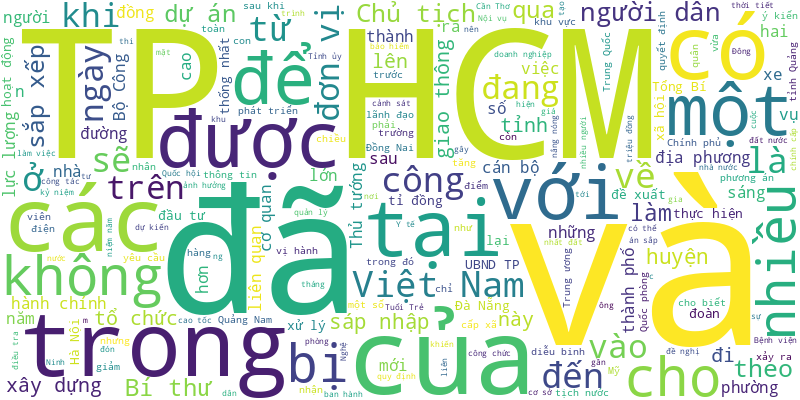
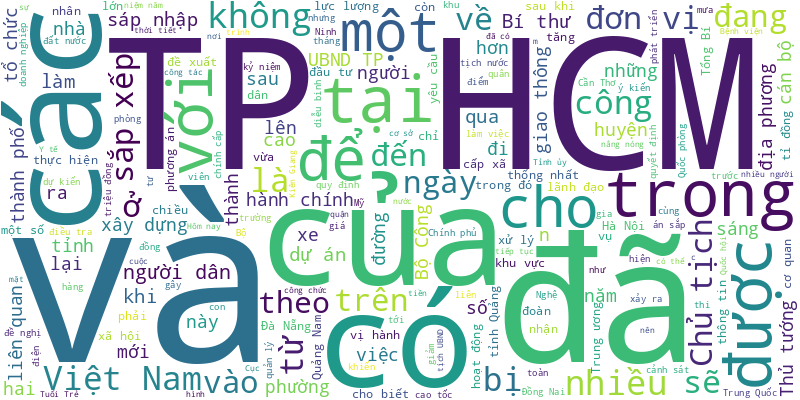
🍀 = 70%

diff --git a/README.md b/README.md
@@ -1,6 +1,20 @@
 # Tuoi Tre RSS 
 
 ## Giáo dục 
+- Tổng thống Mỹ Donald Trump đe dọa tước quyền miễn thuế của Đại học Harvard, đồng thời đóng băng 2,3 tỉ USD tài trợ liên bang, làm leo thang căng thẳng giữa chính quyền và học giới.
+- Lần đầu tiên, thiết chế hội đồng trường ở các cơ sở giáo dục đại học được đánh giá một cách toàn diện sau 5 năm thực hiện Luật GDĐH 2018.
+- So với khóa tuyển sinh năm ngoái, năm nay Trường đại học Hà Nội dự kiến tăng học phí từ 60.000 - 120.000 đồng/tín chỉ, tùy theo từng học phần, nhóm chuyên ngành.
+- Gần 300 trẻ mầm non lớp chồi, lớp lá từ hàng trăm trường mầm non tại TP.HCM đã xuất sắc tranh tài trong vòng chung kết cuộc thi 'Bé vẽ sáng tạo cùng BITEX'.
+- Một giáo viên trường mầm non ở Bắc Ninh bị camera ghi lại hành vi đánh trẻ ngay tại lớp học, khiến phụ huynh bức xúc và đăng clip lên mạng xã hội. Chính quyền và công an đã vào cuộc xác minh.
+- Đây là một trong những hoạt động của ngày hội 'Từ Mậu Thân đến mùa xuân đại thắng', do Trường tiểu học Trần Hưng Đạo, quận 1, TP.HCM tổ chức.
+- Sau hơn 6 năm tái cấu trúc với tên gọi mới từ tháng 11-2018, Trường đại học Phenikaa đã có sự chuyển biến nhanh chóng, trở thành trường trẻ nhất chuyển đổi thành công sang mô hình đại học.
+- Một số dự án xây dựng cơ sở vật chất tại các trường đại học gặp nhiều khó khăn trong việc triển khai do vướng nhiều thủ tục.
+- Tại tỉnh Ninh Thuận có huyện tiếp tục tuyển giáo viên để đảm bảo việc dạy học, nhưng có nơi lại tạm dừng vì lý do sắp xếp, sáp nhập đơn vị hành chính.
+- Bí thư Tỉnh ủy Quảng Ngãi giao Sở Giáo dục tính toán điều kiện học hành cho con em của cán bộ theo cha mẹ từ Kon Tum xuống Quảng Ngãi sau sáp nhập.
+- Sáng 16-4, vòng chung kết hội thi 'Đầu bếp trẻ' lần thứ 10 do Sở Giáo dục và Đào tạo TP.HCM tổ chức diễn ra sôi nổi, quy tụ 125 đội thi.
+- Năm 2025, Đại học Quốc gia TP.HCM vẫn tiếp tục ưu tiên xét tuyển theo quy định của đại học này. Với quy chế tuyển sinh mới việc xét tuyển sẽ thay đổi ra sao, thí sinh cần lưu ý gì?
+- Theo ban tuyển sinh quân sự (Bộ Quốc phòng), năm nay các trường quân đội sẽ tuyển sinh theo ba phương thức, bỏ phương thức xét học bạ so với năm ngoái.
+- Giữa bối cảnh chính quyền Mỹ cắt giảm ngân sách cho các trường đại học Mỹ và thu hồi visa sinh viên quốc tế, nhiều sinh viên Mỹ đã chuyển hướng quan tâm sang các trường đại học Canada.
 - Trường THPT chuyên Lê Quý Đôn (TP Nha Trang, tỉnh Khánh Hòa) cho biết căn cứ vào các quy định hiện hành để áp dụng hình thức xử lý kỷ luật phù hợp đối với nam sinh cắt ghép hình ảnh nhạy cảm của nhiều nữ sinh cùng trường.
 - Đợt lễ 30-4 và 1-5 năm nay, sinh viên nhiều trường đại học ở TP.HCM phải học bù để được nghỉ 5 ngày liên tục.
 - Thông tin Sở Giáo dục và Đào tạo thành phố Đà Nẵng đưa môn pickleball vào trường học đã nhận về nhiều ý kiến trái chiều, khiến lãnh đạo sở phải lên tiếng giải thích thêm.
@@ -990,22 +1004,75 @@ Trường đại học Văn Lang được QS xếp hạng top 51-100 thế giớ
 - Nhiều trường quốc tế tại Việt Nam đã thông báo mức học phí cho năm học 2025-2026 và bắt đầu khởi động các đợt tuyển sinh sớm.
 - Từ những chuyến đi học tập trải nghiệm thực tế, các cô cậu học trò không khỏi trân quý những thành quả lao động được làm ra từ chính đôi bàn tay của những người sản xuất.
 - Năm 2025, Trường đại học Luật TP.HCM dự kiến sẽ tăng mạnh chỉ tiêu tuyển sinh đại học chính quy, mở thêm tối thiểu 3 ngành mới các lĩnh vực kinh doanh và quản lý, pháp luật.
-- Theo hiệu trưởng nhà trường, hành động của cô giáo M. là sai, vi phạm quy định, giáo viên không được phép làm. Nhà trường đã tạm dừng việc đứng lớp của cô giáo M. một tuần.
-- Chiều 26-12, học sinh Trường THPT Ernst Thälmann (quận 1, TP.HCM) đến tham quan học tập thực tế tại nhà máy mì Acecook Việt Nam.
-- Phòng thí nghiệm được dùng để nghiên cứu công nghệ phục vụ các ứng dụng của 5G, 6G như công nghiệp tự động hóa, điều khiển tự động, xe tự lái, phẫu thuật y tế từ xa.
-- Tất cả học sinh lớp 12 Trường THPT Trần Hữu Trang, TP.HCM phải làm bài kiểm tra lại môn tiếng Anh trong đợt thi cuối học kỳ 1.
-- Phó thủ tướng Lê Thành Long vừa ký các quyết định của Thủ tướng về việc sáp nhập Trường cao đẳng Y tế Hải Dương và Trường cao đẳng Sư phạm Nghệ An vào hai trường đại học.
-- Năm 2024 đánh dấu cột mốc của sinh viên Đại học (ĐH) Duy Tân với chuỗi dài các giải nhất ở khắp các “đấu trường” học thuật trong nước và quốc tế.
-- Theo lãnh đạo Đại học Quốc gia TP.HCM, cấu trúc bài thi, đề thi đánh giá năng lực từ năm 2025 cần được điều chỉnh phù hợp.
-- Lo ngại lệnh cấm đi lại có thể được áp dụng, một số trường đại học tại Mỹ khuyến khích sinh viên quốc tế sớm quay trở lại trường sau kỳ nghỉ đông.
-- Nhiều bạn trẻ đặt niềm tin vô điều kiện vào mẹo tâm linh như đăng lại video TikTok may mắn, trải bài tarot... đủ kiểu trước kỳ thi.
-- Ngoài việc đổi tên, học viện này đang xúc tiến thủ tục thành lập phân hiệu tại Long Thành, Đồng Nai nhằm cung cấp nhân lực về hàng không.
-- Đến nay, Trường quốc tế Ngôi Sao Sài Gòn (Saigon Star) vẫn không có tên trong danh sách các trường ngoài công lập do Sở Giáo dục và Đào tạo cấp phép.
-- Một số học sinh ở Quảng Nam lên mạng xã hội mua búp bê Kumanthong về nhà thờ cúng, mua bánh, kẹo, sữa 'cho ăn' nhằm cầu may mắn và học giỏi. Theo công an, đây là hoạt động mê tín dị đoan hết sức nguy hiểm.
-- Nhận học bổng "Tiếp sức học sinh Làng Nủ đến trường", các học sinh nói vẫn nhớ những bát "Phở yêu thương" của báo Tuổi Trẻ.
-- Với việc ký kết hợp tác với Trường đại học Cửu Long, lần đầu tiên báo Tuổi Trẻ ký kết hợp tác toàn diện với một trường đại học ngoài địa giới TP.HCM và cũng là đại học tư thục đầu tiên của khu vực Đồng bằng sông Cửu Long.
 ![Edu](Edu.png)
 ## Thời Sự 
+- Để tăng cường kiểm soát và xử lý ô nhiễm môi trường nước, Bộ Nông nghiệp và Môi trường cho biết sẽ phối hợp với Bộ Công an xử lý nghiêm những trường hợp cố tình chây ì, không bảo vệ môi trường lưu vực sông.
+- Ban quản lý dự án đầu tư xây dựng công trình dân dụng Hà Nội (Ban quản lý) vừa có thông báo về phương án dịch chuyển, chặt hạ cây xanh nằm trong phạm vi giải phóng mặt bằng xây đường vành đai 1, đoạn Hoàng Cầu - Voi Phục.
+- Kỳ họp HĐND TP.HCM lần thứ 22 sẽ xem xét thông qua phương án sắp xếp lại đơn vị hành chính các cấp và xây dựng mô hình chính quyền địa phương hai cấp; tổ chức bộ máy các cơ quan chuyên môn thuộc UBND TP.HCM.
+- Nên để người về hưu tự quyết định lựa chọn làm tiếp hay không khi đã nghỉ hưu thay vì quy định cứng.
+- Ban Chấp hành Đảng bộ tỉnh Cà Mau thống nhất cao và thông qua đề án sắp xếp đơn vị hành chính cấp xã, giảm từ 100 còn 39 đơn vị cấp xã.
+- Tôi đồng thuận với việc phải cân nhắc và thảo luận trong nhân dân về việc đặt tên gắn với đơn vị hành chính mới. Trong đó yếu tố lịch sử cần được chú trọng hơn.
+- Tin tức đáng chú ý: Ưu tiên bố trí trụ sở dôi dư làm trường học, thư viện, bệnh viện; TP.HCM tiếp tục khan hiếm căn hộ bình dân; Ca mắc sởi, tay chân miệng tại Hà Nội tăng...
+- Hôm nay 17-4, thời tiết cả nước nắng nóng diện rộng, nhiều nơi nắng nóng gay gắt, độ ẩm thấp dẫn tới nguy cơ cháy nổ rất cao.
+- Một vụ cháy rừng kéo dài từ chiều đến đêm 16-4 ở phường Ba Sao, thị xã Kim Bảng (Hà Nam) vẫn chưa được dập tắt hoàn toàn.
+- Chiều 16-4, 20 học sinh Trường tiểu học số 4, TP Bằng Tường (Khu tự trị dân tộc Choang Quảng Tây, Trung Quốc) đã cùng các học sinh Việt Nam tham gia các hoạt động giao lưu, tìm hiểu và trải nghiệm văn hóa Việt Nam như vẽ nón lá, làm gốm.
+- Chủ tịch UBND TP.HCM Nguyễn Văn Được đánh giá cao đề xuất của Tập đoàn Vingroup về các ý tưởng, đề xuất chuyển đổi xanh cho TP.
+- Bộ Tư lệnh TP.HCM cho biết dịp đại lễ 30-4 sẽ bắn pháo hoa trong ba đêm 19, 26 và 30-4, trong đó đêm 30-4 bắn pháo hoa tầm cao và tầm thấp tại 30 điểm.
+- Tiếp Bộ trưởng Ngoại giao Hàn Quốc ngày 16-4, các lãnh đạo Việt Nam đề nghị hỗ trợ vốn vay ưu đãi cho đường sắt, giúp Việt Nam phát triển công nghiệp văn hóa.
+- Kiên Giang vừa có quyết định về việc xác định các khu vực có ý nghĩa quan trọng trên địa bàn TP Phú Quốc, trong có 37 khu vực quan trọng góp phần phát triển kinh tế - xã hội trên hòn đảo xinh đẹp này.
+- Thanh tra Sở Văn hóa, Thể thao và Du lịch tỉnh Quảng Ninh đã xử phạt 12,5 triệu đồng chủ tàu để khách chơi pickleball trên boong. Đã có người lao xuống biển khi đỡ bóng.
+- Nhiều khách sạn, cơ sở du lịch tại Quảng Bình bị kẻ xấu lập fanpage mạo danh. Trang giả mạo này đưa ra các chương trình khuyến mãi hấp dẫn. Nhiều du khách tưởng thật, chuyển tiền cọc rồi không liên lạc được.
+- Theo đề án sắp xếp đơn vị hành chính cấp xã, sau sáp nhập, phường mới ở Bình Phước dự kiến có các tên Bình Phước, Đồng Xoài, Bình Long và Phước Long.
+- Ngày 16-4, cảnh sát giao thông An Sương phát hiện tài xế xe buýt vi phạm nồng độ cồn 0,148mg/l khí thở. Tài xế sẽ bị phạt tiền từ 6-8 triệu đồng, trừ 4 điểm giấy phép lái xe và tạm giữ phương tiện.
+- UBND TP.HCM vừa có quyết định phân công công tác chủ tịch, phó chủ tịch UBND TP.HCM và các ủy viên UBND TP.HCM.
+- Chủ tịch nước khẳng định 100 gương mặt tiêu biểu có mặt hôm nay là những 'bông hoa' rất đẹp, rất thật, là những 'câu chuyện cổ tích giữa đời thường'.
+- Đà Nẵng mới sau khi sáp nhập sẽ là thành phố rộng nhất nước. Đây cũng là thành phố có bờ biển dài nhất và có tới 2 sân bay.
+- Liên quan vụ 600 loại sữa giả, Chủ nhiệm Ủy ban Công tác đại biểu Nguyễn Thanh Hải cho rằng cần xem có tồn tại những lỗ hổng, khoảng trống trong quản lý, các văn bản pháp lý.
+- Theo tờ trình của UBND TP Nha Trang, dự kiến thành phố này còn 3 phường gồm phường Nha Trang, phường Bắc Nha Trang và phường Nam Nha Trang.
+- Tại TP Buôn Ma Thuột (Đắk Lắk), nhiều công trình vi phạm vẫn đang đua nhau mọc lên để săn view, đặc biệt ở các khu vực có tiềm năng phát triển du lịch, dịch vụ.
+- 'Chúng tôi đã giành lại Tổ quốc với biết bao xương máu của đồng bào, đồng chí. Mong thế hệ trẻ giữ gìn và phát triển đất nước làm sao xứng đáng với tầm vóc của những người đã ngã xuống'. Câu chuyện của những người lính xe tăng 390.
+- Một học sinh lớp 7 ở Huế bị sóng biển cuốn mất tích khi đang tắm biển cùng nhóm bạn.
+- Chiều 16-4, Đại tướng Phan Văn Giang, bộ trưởng Bộ Quốc phòng, đã có buổi làm việc với Tỉnh ủy Lạng Sơn.
+- Những năm gần đây, tình trạng xâm thực khiến bờ biển sạt lở, ngày càng tiến sát vào khu dân cư khiến hàng trăm hộ dân lo lắng, bất an.
+- Theo đề án sắp xếp đơn vị hành chính cấp xã của tỉnh Quảng Ngãi năm 2025 được biểu quyết thông qua, tỉnh Quảng Ngãi tổ chức lại huyện đảo Lý Sơn thành đơn vị hành chính cấp xã có tên gọi là đặc khu Lý Sơn.
+- Đề xuất thí điểm viện kiểm sát nhân dân khởi kiện vụ án dân sự để bảo vệ quyền dân sự của các chủ thể là nhóm dễ bị tổn thương, hoặc bảo vệ lợi ích công.
+- Đại tướng Phan Văn Giang và Thượng tướng Đổng Quân đã thăm cửa khẩu Hữu Nghị Quan, Đại đội Biên phòng, mô hình cửa khẩu thông minh, thôn kiểu mẫu Chu Liên và trường tiểu học tại khu tự trị dân tộc Choang Quảng Tây, Trung Quốc.
+- Một số dự án xây dựng cơ sở vật chất tại các trường đại học gặp nhiều khó khăn trong việc triển khai do vướng nhiều thủ tục.
+- Đập Sabo đầu tiên tại Việt Nam được thiết kế theo tiêu chuẩn Nhật Bản giúp giảm lũ ống, lũ quét vừa được khánh thành tại Sơn La.
+- Tuổi Trẻ Online trân trọng đăng toàn văn bài phát biểu chỉ đạo của Tổng Bí thư Tô Lâm tại Hội nghị toàn quốc quán triệt, triển khai thực hiện Nghị quyết Hội nghị lần thứ 11 Ban Chấp hành Trung ương Đảng khóa XIII.
+- Theo kế hoạch, Long An sẽ lấy ý kiến về sắp xếp địa phương 2 cấp từ nay đến ngày 21-4, để thông qua HĐND cấp xã dự kiến trước ngày 24-4.
+- Sở Nội vụ tỉnh Đồng Nai vừa nhắc nhở nhiều đơn vị, địa phương trên địa bàn tỉnh khẩn trương cung cấp số liệu để làm đề án sắp xếp, sáp nhập các đơn vị hành chính.
+- Nhiều tỉnh ở miền Tây đều có huyện Châu Thành, riêng tỉnh Hậu Giang có 2 huyện mang tên địa danh này. Sau khi bỏ cấp huyện, địa danh Châu Thành có còn được giữ lại?
+- Sở Xây dựng Hà Nội vừa ký quyết định số 3725 về việc bố trí các địa điểm cho 5 đơn vị di dời phục vụ phương án quy hoạch, cải tạo không gian khu vực phía đông hồ Hoàn Kiếm.
+- Sở Văn hóa, Thể thao và Du lịch tỉnh Quảng Ninh sẽ làm việc với các đơn vị liên quan vụ người đàn ông lao xuống biển khi đang chơi pickleball trên boong tàu du lịch.
+- Tuyến Lộ Tẻ - Rạch Sỏi là đường huyết mạch về tỉnh Kiên Giang đang được thi công nâng cấp giai đoạn 2. Thế nhưng nhiều người phản ánh thi công ì ạch.
+- Liên hệ không được, Sở Nội vụ Quảng Nam phải cử người vào tận TP.HCM gặp chủ doanh nghiệp may mặc để đòi quyền lợi cho công nhân.
+- Ông Lê Minh Hưng cho hay sau khi sáp nhập, tỉnh mới có thể nghiên cứu quy hoạch, lựa chọn xây dựng các trung tâm chính trị - hành chính mới phù hợp.
+- UBND tỉnh Vĩnh Long sắp trình Ban Chấp hành tỉnh thông qua đề án sắp xếp 102 xã phường xuống 35, và dự kiến không còn ký hiệu phường bằng số.
+- Vietjet chính thức khai thác các chuyến bay TP.HCM, Hà Nội - Côn Đảo từ ngày 19-4, đồng thời ra mắt dịch vụ giỏ lễ xanh phục vụ du khách hành hương.
+- Bí thư Nguyễn Văn Nên làm trưởng Ban Chỉ đạo thực hiện sắp xếp, tổ chức lại đơn vị hành chính các cấp và xây dựng mô hình tổ chức chính quyền địa phương 2 cấp.
+- Bí thư Tỉnh ủy Quảng Ngãi giao Sở Giáo dục tính toán điều kiện học hành cho con em của cán bộ theo cha mẹ từ Kon Tum xuống Quảng Ngãi sau sáp nhập.
+- Thành phố Đà Nẵng mới sau khi sáp nhập tỉnh Quảng Nam với thành phố Đà Nẵng hiện nay có 3 di sản thế giới được UNESCO công nhận.
+- Những ngày biển lặng, người dân làng chài Mân Thái (quận Sơn Trà, TP Đà Nẵng) í ới gọi nhau kéo lưới rùng.
+- 50 anh hùng lực lượng vũ trang nhân dân, Bà mẹ Việt Nam anh hùng, cựu chiến binh vừa có buổi gặp mặt tại Hội trường Thống Nhất (TP.HCM) sáng 16-4.
+- Chỉ cần cung cấp vài thông tin cơ bản, một số cá nhân khẳng định có thể làm luôn cho khách hàng chứng chỉ hành nghề khám, chữa bệnh "giả" với đủ phạm vi hoạt động.
+- Tổng Bí thư Tô Lâm lưu ý khi thực hiện sáp nhập cần vượt qua những tâm lý, tâm trạng vùng miền để hướng tới tư duy, tầm nhìn rộng lớn hơn đất nước là quê hương.
+- Công an phường Điện Minh, thị xã Điện Bàn, Quảng Nam cho hay vừa giúp một người dân ở tỉnh Đắk Lắk nhận lại số tiền 410 triệu đồng do sơ ý chuyển nhầm.
+- 70km cao tốc Vân Phong - Nha Trang trên tuyến cao tốc Bắc - Nam phía đông sẽ đưa vào khai thác sử dụng vào ngày 19-4.
+- Sáng 16-4, UBND xã Gio An (huyện Gio Linh, tỉnh Quảng Trị) tổ chức lễ động thổ, đặt viên đá đầu tiên xây dựng đền thờ chúa tiên Nguyễn Hoàng tại thôn An Nha.
+- Các đại biểu thống nhất thông qua đề án sắp xếp đơn vị hành chính cấp xã của tỉnh Quảng Ngãi năm 2025, sau sắp xếp Quảng Ngãi giảm 67,65% số xã.
+- Chủ tịch UBND TP Biên Hòa (Đồng Nai) cho hay đang thương thảo hợp đồng với đơn vị xử lý rác, không để xảy ra tình trạng ngưng trệ việc thu gom rác.
+- Dự báo đợt nắng nóng diện rộng đầu tiên trong năm 2025 sẽ kéo dài tới khoảng ngày 22-4, riêng Nam Bộ sẽ kéo dài hơn.
+- Sáng 16-4, Đại tướng Phan Văn Giang đã dẫn đầu đoàn đại biểu cấp cao Bộ Quốc phòng Việt Nam sang Trung Quốc.
+- Trong buổi tổng hợp luyện diễu binh tại sân bay Biên Hòa sáng nay 16-4, không khí càng hào hùng hơn khi các lực lượng đã nhuần nhuyễn sau nhiều ngày tập luyện.
+- Thủ tướng Phạm Minh Chính nhấn mạnh mục tiêu chuyển từ thụ động phục vụ nhân dân sang tích cực chủ động phục vụ nhân dân, với định hướng chính quyền phải gần dân, sát dân, hiểu dân.
+- Cục Cảnh sát giao thông vừa có phương án phân luồng giao thông từ xa, giải quyết ùn tắc giao thông khu vực TP.HCM và các địa phương liên quan.
+- Từ tin báo người dân, Đoàn kinh tế - quốc phòng 337 tìm thấy 2 hài cốt liệt sĩ trong hốc đá với nhiều di vật.
+- Chuyển 100% biên chế cấp huyện hiện có để bố trí biên chế cấp xã, trong đó đội ngũ cán bộ lãnh đạo cấp huyện hiện nay được bố trí làm nòng cốt tại đơn vị cấp xã mới.
+- Chính phủ thống nhất với việc không tổ chức cơ quan điều tra của Viện Kiểm sát nhân dân tối cao theo đúng quy định của Hiến pháp.
+- Nghị quyết mới của Ủy ban Thường vụ Quốc hội quy định cách đặt tên, quy mô dân số, diện tích cấp tỉnh, xã, phường sáp nhập.
+- Chủ tịch Quốc hội Trần Thanh Mẫn cho biết bầu cử Quốc hội khóa XVI và HĐND các cấp sẽ diễn ra sớm (dự kiến 15-3-2026). Quốc hội dự kiến có 500 đại biểu.
+- Sau sáp nhập, đường từ trung tâm Sóc Trăng và Hậu Giang về trung tâm thành phố Cần Thơ chỉ khoảng 60km nhưng di chuyển mất rất nhiều thời gian và chi phí qua trạm thu phí cũng khá cao.
 - Từ nay đến 30-4, một loạt dự án giao thông trong cả nước sẽ rộn ràng khởi công, khánh thành chào mừng kỷ niệm 50 năm thống nhất đất nước.
 - Trong buổi tổng hợp luyện tại sân bay Biên Hòa trước khi hội quân về TP.HCM, Đại tướng Nguyễn Tân Cương - tổng tham mưu trưởng Quân đội nhân dân Việt Nam - trực tiếp chỉ đạo.
 - Theo đề án sắp xếp hệ thống cơ quan thanh tra, bộ máy của Thanh tra Chính phủ sẽ sắp xếp cơ sở kết thúc hoạt động 12 thanh tra bộ và 5 đơn vị cấp vụ, đồng thời hợp nhất 2 đơn vị khác.
@@ -1042,6 +1109,7 @@ Trường đại học Văn Lang được QS xếp hạng top 51-100 thế giớ
 - Chủ tịch UBND TP.HCM Nguyễn Văn Được yêu cầu các địa phương tăng cường chấn chỉnh lấn chiếm lòng đường, vỉa hè trái phép.
 - PGS.TS Lê Anh Tuấn lý giải việc các cống ngăn mặn cùng với đê bao đã làm triều không được phân tán, nên nước mặn theo triều đẩy sâu vào đất liền.
 - Trên nhiều tuyến phố ở trung tâm Đà Nẵng thời gian qua xuất hiện các vết bùn, đất nhem nhuốc, mất mỹ quan. Đáng nói là tình trạng này xuất hiện ở ngay trên tuyến phố ven sông Hàn - nơi hằng ngày có đông đảo du khách qua lại.
+- Hàng trăm cán bộ, trong đó có nhiều lãnh đạo chủ chốt các tỉnh, thành đã nộp đơn xin nghỉ, nhường chỗ cho thế hệ kế cận để tinh gọn, sắp xếp bộ máy. Bước đầu có cả trăm tỉ đồng chi ra cho các cán bộ nghỉ hưu trước để sắp xếp bộ máy.
 - Hội nghị lần 39 Ban Chấp hành Đảng bộ TP.HCM thảo luận và cho ý kiến phương án sắp xếp phường xã, xây dựng mô hình tổ chức chính quyền địa phương hai cấp; hợp nhất các tỉnh, kết thúc hoạt động cấp huyện.
 - TP.HCM sẽ có 6 dự án được đầu tư theo đối tác công tư, trong đó có xây dựng Bệnh viện Đột qụy có mức kêu gọi đầu tư 1.200 tỉ đồng.
 - Ông Đặng Hồng Anh - phó chủ tịch Tập đoàn TTC - sẽ từ nhiệm vai trò phó chủ tịch HĐQT Công ty TTC Land nhưng sẽ đảm nhiệm vai trò khác tại doanh nghiệp bất động sản này.
@@ -1938,74 +2006,6 @@ Trường đại học Văn Lang được QS xếp hạng top 51-100 thế giớ
 - Liên quan vụ ô tô chở 36 du khách đi từ Đà Lạt rơi xuống vực đèo Bảo Lộc (tỉnh Lâm Đồng), tài xế đã bị tạm giữ để phục vụ điều tra.
 - Tại cuộc tiếp Đại sứ Mỹ Marc Knapper, Tổng Bí thư Tô Lâm cho biết Việt Nam đang tích cực giải quyết các quan tâm hiện nay của Mỹ, trên tinh thần khuyến khích gia tăng nhập khẩu các sản phẩm mà nước này có thế mạnh và Việt Nam có nhu cầu.
 - ‘Nổ’ du học nước ngoài về và đang là bác sĩ, Nguyễn Quán Hùng làm quen nhiều cô gái rồi lừa cả tình lẫn tiền của các nạn nhân.
-- Trong 8 năm, cơ quan chức năng phát hiện 110 mỏ khoáng sản, gồm 25 loại khác nhau như đất hiếm, vàng, thiếc-wolfram, đồng.
-- Anh T. chở vợ là chị C. bằng xe máy đi khám bệnh, khi đi đến địa bàn huyện Cái Nước, tỉnh Cà Mau thì va chạm với xe khách. Vụ va chạm làm vợ chồng anh T. tử vong tại chỗ.
-- Cơ quan chức năng nghi ngờ nhà thầu thi công căn nhà 7 tầng tại TP Buôn Ma Thuột (Đắk Lắk) đã đào móng quá sâu và rộng, làm sập căn nhà bên cạnh.
-- Việt Nam không nằm trên vành đai lửa nên không xảy ra động đất mang tính chất hủy diệt, song vẫn có khả năng xảy ra các trận động đất mạnh 6-7 độ (độ lớn M) ở khu vực Tây Bắc, do có nhiều đứt gãy địa chất.
-- Trung tâm Quản lý giao thông công cộng TP.HCM thông báo điều chỉnh lộ trình tuyến xe buýt 99 (chợ Thạnh Mỹ Lợi - Đại học Quốc gia) kết nối vào tuyến metro số 1 (Bến Thành - Suối Tiên).
-- Cháu bé 8 tuổi bị người tình của mẹ đánh, ném xuống sàn nhà gây chấn thương não, nhập viện cấp cứu trong tình trạng hôn mê ở An Giang đã tử vong, gia đình đã đưa thi thể cháu về lo hậu sự.
-- Viện Kiểm sát nhân dân tỉnh Tiền Giang đã phê chuẩn quyết định khởi tố bị can Hồ Vũ Bảo - cựu phó giám đốc Sở Nội vụ, trưởng Ban Thi đua - Khen thưởng trực thuộc Sở Nội vụ tỉnh Tiền Giang - về tội thiếu trách nhiệm gây hậu quả nghiêm trọng.
-- Ông H. có những bình luận trên mạng xã hội Facebook khiếm nhã, phân biệt địa phương, chia rẽ tình cảm giữa nhân dân hai tỉnh Quảng Trị và Quảng Bình.
-- Tỉnh Bạc Liêu thông qua chính sách hỗ trợ lãi vay đầu tư xe buýt và miễn, giảm giá vé cho nhiều đối tượng đi xe buýt để khuyến khích loại hình vận tải công cộng này.
-- Kết thúc thanh tra dự án xây dựng cơ sở 2 Bệnh viện Bạch Mai và Bệnh viện Hữu nghị Việt Đức, Thanh tra Chính phủ phát hiện giá trị lãng phí lên đến hàng ngàn tỉ, chuyển hồ sơ vụ việc có dấu hiệu tội phạm đến Bộ Công an xem xét điều tra, xử lý.
-- Chủ tịch Quốc hội Trần Thanh Mẫn nhấn mạnh, tại kỳ họp thứ 9 sẽ ưu tiên trình Quốc hội xem xét, quyết định các nội dung cấp thiết phục vụ sắp xếp tổ chức bộ máy, tổ chức chính quyền.
-- Căn nhà bốc cháy khiến bé trai tử vong. Khi ngọn lửa bùng phát, cơ quan chức năng cho hay mẹ nạn nhân không có trong nhà.
-- Tổng liên đoàn Lao động Việt Nam sẽ nghiên cứu, đề xuất tăng cường kiểm tra tài chính, kết hợp kiểm toán độc lập tại công đoàn cơ sở ở doanh nghiệp ngoài nhà nước có đông công nhân.
-- Lâm Đồng nằm sâu trong nội địa, Bình Thuận giáp ranh và có 192km bờ biển. Giao thông kết nối hai tỉnh hiện ra sao?
-- Lực lượng cảnh sát giao thông Quảng Nam đã làm việc với chủ xe và 2 người nước ngoài, liên quan đến vụ việc nhóm người buông hai tay khi lái mô tô phân khối lớn trên đường.
-- Bộ Nội vụ đề xuất UBND cấp tỉnh trước sáp nhập lập danh sách, thống nhất dự kiến phương án xử lý trụ sở, tài sản công của cơ quan, tổ chức, đơn vị ở cấp tỉnh thuộc phạm vi quản lý, kèm theo đề án sắp xếp đơn vị cấp tỉnh.
-- Bà Cao Thị Hòa An - phó bí thư thường trực Tỉnh ủy Phú Yên - vừa được Bộ Chính trị chuẩn y là bí thư Tỉnh ủy Phú Yên nhiệm kỳ 2020 - 2025.
-- Thủ tướng đề nghị các trường đại học của hai bên chủ động trao đổi để có các chương trình hợp tác cụ thể.
-- Ông Võ Thanh Hùng, trưởng Ban Nội chính Tỉnh ủy Gia Lai, được tổ chức cho phép nghỉ hưu trước tuổi dù còn 3 năm công tác.
-- Chủ tịch tỉnh Khánh Hòa chỉ đạo các đơn vị liên quan kiểm tra, xử lý vụ người dân "tố" lãnh đạo xã đi dã ngoại xa trong giờ hành chính.
-- Mức phạt dành cho nhóm người chặn đường đánh bóng bàn ở quận Gò Vấp (TP.HCM) còn nhẹ, chưa đủ sức răn đe.
-- Một nam thanh niên ở Nghệ An trúng tuyển nghĩa vụ quân sự nhưng trước lễ giao nhận quân hai ngày lại xuất cảnh sang Hàn Quốc làm việc.
-- UBND TP.HCM vừa ban hành quyết định giao nhiệm vụ chủ đầu tư các dự án metro thực hiện theo nghị quyết 188 của Quốc hội.
-- Sáng 31-3, tàu huấn luyện Suzunami của Lực lượng Tự vệ trên biển Nhật Bản chở theo 230 sĩ quan và thủy thủ đã cập cảng Tiên Sa.
-- Phó tổng tham mưu trưởng Lào trung tướng Vanthong Bouttavong cho biết Việt Nam là nước đầu tiên được quân đội Lào chọn để nghiên cứu xây dựng lực lượng gìn giữ hòa bình Liên hợp quốc.
-- Báo Tuổi Trẻ đã tiếp nhận ủng hộ của nhiều bạn đọc cho người dân Myanmar đang chịu sự mất mát do trận động đất 7,7 độ gây ra.
-- Đường tỉnh 830C nối từ trung tâm huyện Bến Lức (Long An) đến TP.HCM được điều chỉnh tổng mức đầu tư từ 971 tỉ đồng lên 1.851 tỉ đồng.
-- Bất chấp dòng xe cộ đông đúc trên quốc lộ 1, tài xế xe buýt vẫn lái xe chạy ngược chiều, chèn ép xe khác trên đường.
-- Hình ảnh do lực lượng cứu hộ Việt Nam gửi về cho thấy nhiều ngôi nhà tại thủ đô Naypyidaw, Myanmar đã đổ sập, hư hại hoàn toàn.
-- Trưởng Ban Tuyên giáo và Dân vận Trung ương Nguyễn Trọng Nghĩa đề nghị phát huy nguồn lực các tôn giáo cho sự nghiệp phát triển đất nước.
-- Dưới thời tiết nắng gắt của Naypyidaw (Myanmar), đoàn công tác cứu hộ của Việt Nam khẩn trương hỗ trợ tìm kiếm nạn nhân động đất.
-- Xe tải đang chạy lên dốc cầu Chữ Y thì bất ngờ tông vào dải phân cách lật ngang, đầu xe tải va trúng xe máy và ô tô chạy hướng ngược lại.
-- Sự anh dũng chiến đấu, quên mình của nhiều thế hệ cách mạng đã tạo nên huyền thoại, những kỳ tích hào hùng, để lại dấu ấn sâu đậm, trường tồn cùng thời gian.
-- Có tổng cộng 6 bệnh nhân nghi ngộ độc rượu methanol (cồn công nghiệp) được cấp cứu tại Bệnh viện Chợ Rẫy (TP.HCM).
-- Thay đổi mới liên quan đến cấp, đổi thẻ bảo hiểm y tế người dân cần biết vừa được Bảo hiểm xã hội Việt Nam ban hành.
-- UBND tỉnh Lâm Đồng đã phê duyệt dự án đầu tư đường cao tốc Bảo Lộc - Liên Khương nối phía nam Lâm Đồng với Đà Lạt.
-- Tại dự Luật Cán bộ, công chức sửa đổi đang được lấy ý kiến, Bộ Nội vụ đã đề xuất các quy định mới về việc tuyển dụng, thôi việc với công chức.
-- Công an Quảng Trị vừa bắt hai vợ chồng vì hành vi tống tiền một phụ nữ bằng clip sex do chính người chồng quay lại khi quan hệ tình dục với người này.
-- Một ổ mây dông lớn từ biển đang di chuyển dần vào đất liền, chiều nay thời tiết Nam Bộ có mưa dông, nhiều nơi mưa vừa.
-- Xe khách biển số Đà Nẵng chở 24 người đi hành hương bị lật trên đèo Khánh Lê nối Nha Trang với Đà Lạt, khiến 6 người bị thương.
-- Sáng 31-3, Tòa án nhân dân tỉnh Đồng Nai đã mở phiên tòa xét xử sơ thẩm vụ án môi giới hối lộ xảy ra ở trạm cảnh sát giao thông Suối Tre.
-- Để phát triển nhà ở giá rẻ tại các đô thị lớn như Hà Nội và TP.HCM, cần tạo lập quỹ đất và nguồn vốn đủ lớn để xây dựng đồng loạt.
-- Tắm hồ bơi ở phường Thới An (quận 12, TP.HCM), người đàn ông chới với rồi nổi trên mặt nước, mọi người đưa ông lên bờ nhưng ông đã qua đời.
-- Công an đang tạm giữ Hồ Trần Minh Có (30 tuổi, huyện Châu Phú, tỉnh An Giang), làm rõ hành vi đánh đập bé 8 tuổi con của người tình.
-- Sáng 31-3, một vụ cháy lớn xảy ra tại khu nhà xưởng phế liệu. Cột khói đen bốc lên cao có thể nhìn thấy từ khoảng cách xa nhiều kilomet.
-- Ban quản lý dự án 85 trình Bộ Xây dựng chủ trương đầu tư hoàn thiện ống hầm thứ 2 xuyên Núi Vung trên cao tốc Bắc - Nam.
-- Rạng sáng 31-3, Nhà vua Bỉ Philippe và Hoàng hậu Mathilde đã đến Hà Nội, bắt đầu chuyến thăm cấp nhà nước Việt Nam từ ngày 31-3 đến ngày 4-4.
-- Để đáp ứng nhu cầu vốn, IPO (phát hành cổ phiếu lần đầu ra công chúng) là lựa chọn của nhiều doanh nghiệp. Nhưng ngay cả Tesla của Elon Musk hay "ông lớn" Amazon nếu khởi nghiệp ở Việt Nam cũng khó có cơ hội niêm yết, kêu gọi vốn.
-- Tin tức đáng chú ý: Ông Phạm Nhật Vượng tài trợ 27.257 tỉ cho VinFast; TP.HCM điều chỉnh nhiều tuyến xe buýt; Lịch trả lương hưu mới tại Hà Nội...
-- Do ảnh hưởng không khí lạnh nên thời tiết Bắc Bộ mưa rét, Nam Bộ ảnh hưởng của rãnh áp thấp nên trời có mưa rào và dông, nắng nóng giảm.
-- Du khách ngoài được xem pháo hoa tại lễ kỷ niệm 50 năm giải phóng tỉnh Bình Định còn được xem các tiết mục nghệ thuật đậm chất văn hóa của địa phương, trong đó có mô hình “voi lửa” kích thước lớn tái hiện chiến công triều Tây Sơn.
-- Một đoạn clip trên mạng xã hội ghi lại cảnh một nhóm người lái mô tô phân khối lớn, trong đó hai người đã buông hai tay khi lái mô tô trên tuyến đường ven biển Quảng Nam.
-- Sau khi sắp xếp lại theo chủ trương tinh gọn bộ máy, tỉnh Tây Ninh sẽ giảm từ 94 xuống còn 28 đơn vị hành chính cấp xã.
-- Chiều 30-3, đội cứu hộ của Bộ Quốc phòng và Bộ Công an Việt Nam gồm 106 người đã đến sân bay Yangon của Myanmar. Số tiền 300.000 USD cũng đã được Việt Nam viện trợ khẩn cấp cho nước này.
-- Một xe khách đã bị lật trên đèo Bảo Lộc (địa phận huyện Đạ Huoai, tỉnh Lâm Đồng) khiến một người tử vong.
-- Đám cháy bốc lên và nhanh chóng thiêu rụi một phần nhà máy xay xát Rạch Chanh ven quốc lộ 62, huyện Thủ Thừa, Long An.
-- Nhóm thanh niên lái xe máy không đội mũ bảo hiểm, lạng lách giữa các làn rồi tạt đầu ô tô trên cầu Nhật Tân (Hà Nội). Cảnh sát giao thông đã nhanh chóng xác minh.
-- Chiều nay 30-3, mây dông phát triển ở một số tỉnh Đông Nam Bộ rồi xu hướng mở rộng về TP.HCM, chiều tối dự báo có mưa rào.
-- Hạn hán năm nay đến sớm và dự báo sẽ khốc liệt, nhiều hồ đập trên địa bàn Đắk Lắk đã cạn kiệt, buộc địa phương phải tìm giải pháp bảo vệ cây trồng, đảm bảo nguồn nước tưới.
-- Sở Nội vụ Nghệ An đề nghị UBND thành phố Vinh xây dựng phương án sau sắp xếp giảm còn 3 đơn vị hành chính cấp xã. Thành phố Vinh sẽ lấy tên gọi nào?
-- Việc xử lý các dự án vướng mắc không che giấu, không bỏ sót, không để lọt sai phạm, không để thất thoát tài sản nhà nước nhưng bảo đảm quyền và lợi ích hợp pháp, chính đáng của người dân và doanh nghiệp.
-- Dù trời mưa, rét nhưng hàng vạn người dân đã hành hương về Đền Hùng (Phú Thọ) để dâng hương tưởng niệm các Vua Hùng trong ngày 30-3.
-- Sau khi được ông chủ người Hàn Quốc thuê, Xuyên đã lợi dụng việc là giám đốc 2 công ty để rút tiền sử dụng vào mục đích riêng, làm các báo cáo sai lệch để che giấu hành vi, chiếm đoạt gần 6 tỉ.
-- Đường 38 (phường Hiệp Bình Chánh, TP Thủ Đức) lâu nay là một trong những điểm ngập nặng, cứ mưa lớn hay triều cường là nước dâng cao, có khi ngập cả mét khiến việc đi lại của người dân vô cùng khó khăn.
-- Chiều 30-3, 80 cán bộ, chiến sĩ làm nhiệm vụ tại Myanmar đã có mặt tại trụ sở Bộ Quốc phòng để tham dự hội nghị giao nhiệm vụ cho các lực lượng tham gia khắc phục hậu quả động đất tại Myanmar.
-- Khi nghe tin sau ngày 30-3 nhà trọ không đảm bảo phòng cháy chữa cháy sẽ ngừng hoạt động và được cán bộ hướng dẫn, nhiều chủ trọ đã tất bật trang bị, lắp đặt thêm các vật dụng cần thiết theo bốn giải pháp.
-- Theo kế hoạch, Đồng Tháp sẽ cử đoàn công tác đưa 6 con sếu đầu đỏ từ Thái Lan về Việt Nam chuyển giao cho Thảo cầm viên tiếp nhận, đến giữa tháng 4 đón về Vườn quốc gia Tràm Chim chăm sóc.
-- Thêm một thi thể ngư dân trong vụ tàu cá Nghệ An bị chìm trên biển trôi dạt vào bờ biển Hà Tĩnh sáng 30-3.
 ![New](News.png)
 ## Nhịp sống số 
 - Theo nguồn tin đáng tin cậy, tin tặc đã đánh cắp tiền tiết kiệm từ một số thành viên của quỹ hưu trí lớn nhất Úc, và xâm phạm hơn 20.000 tài khoản.
